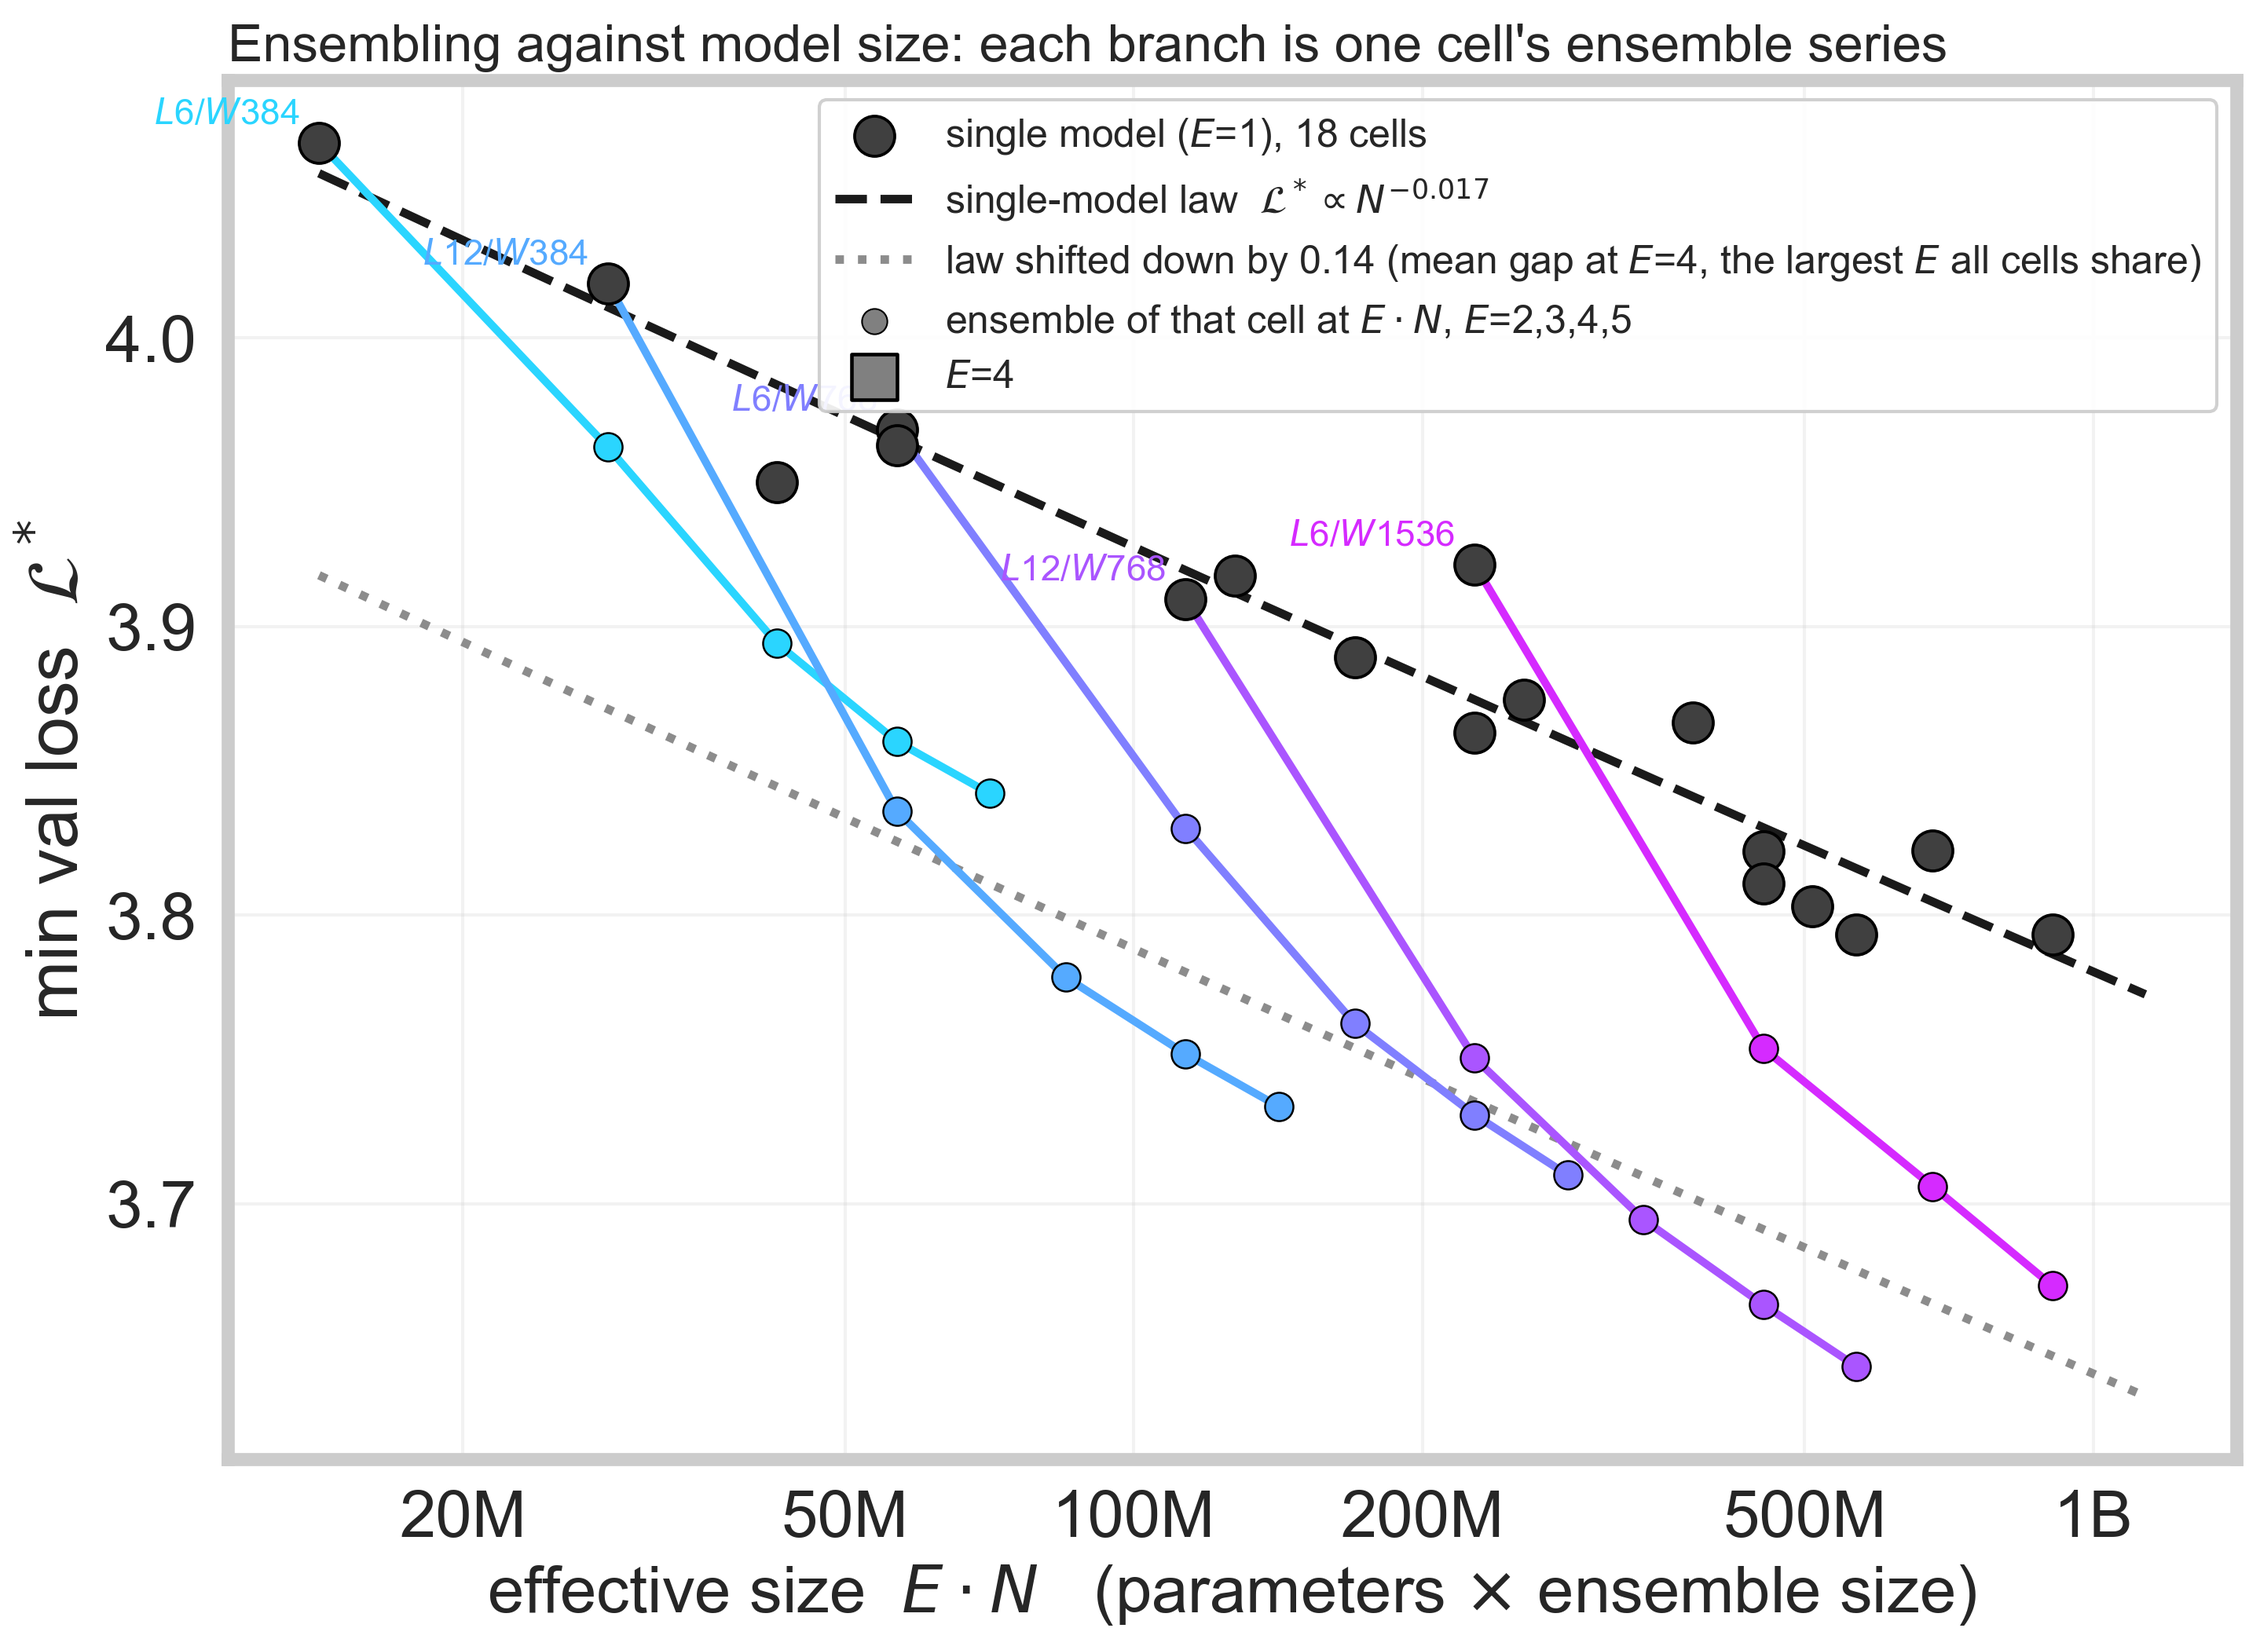
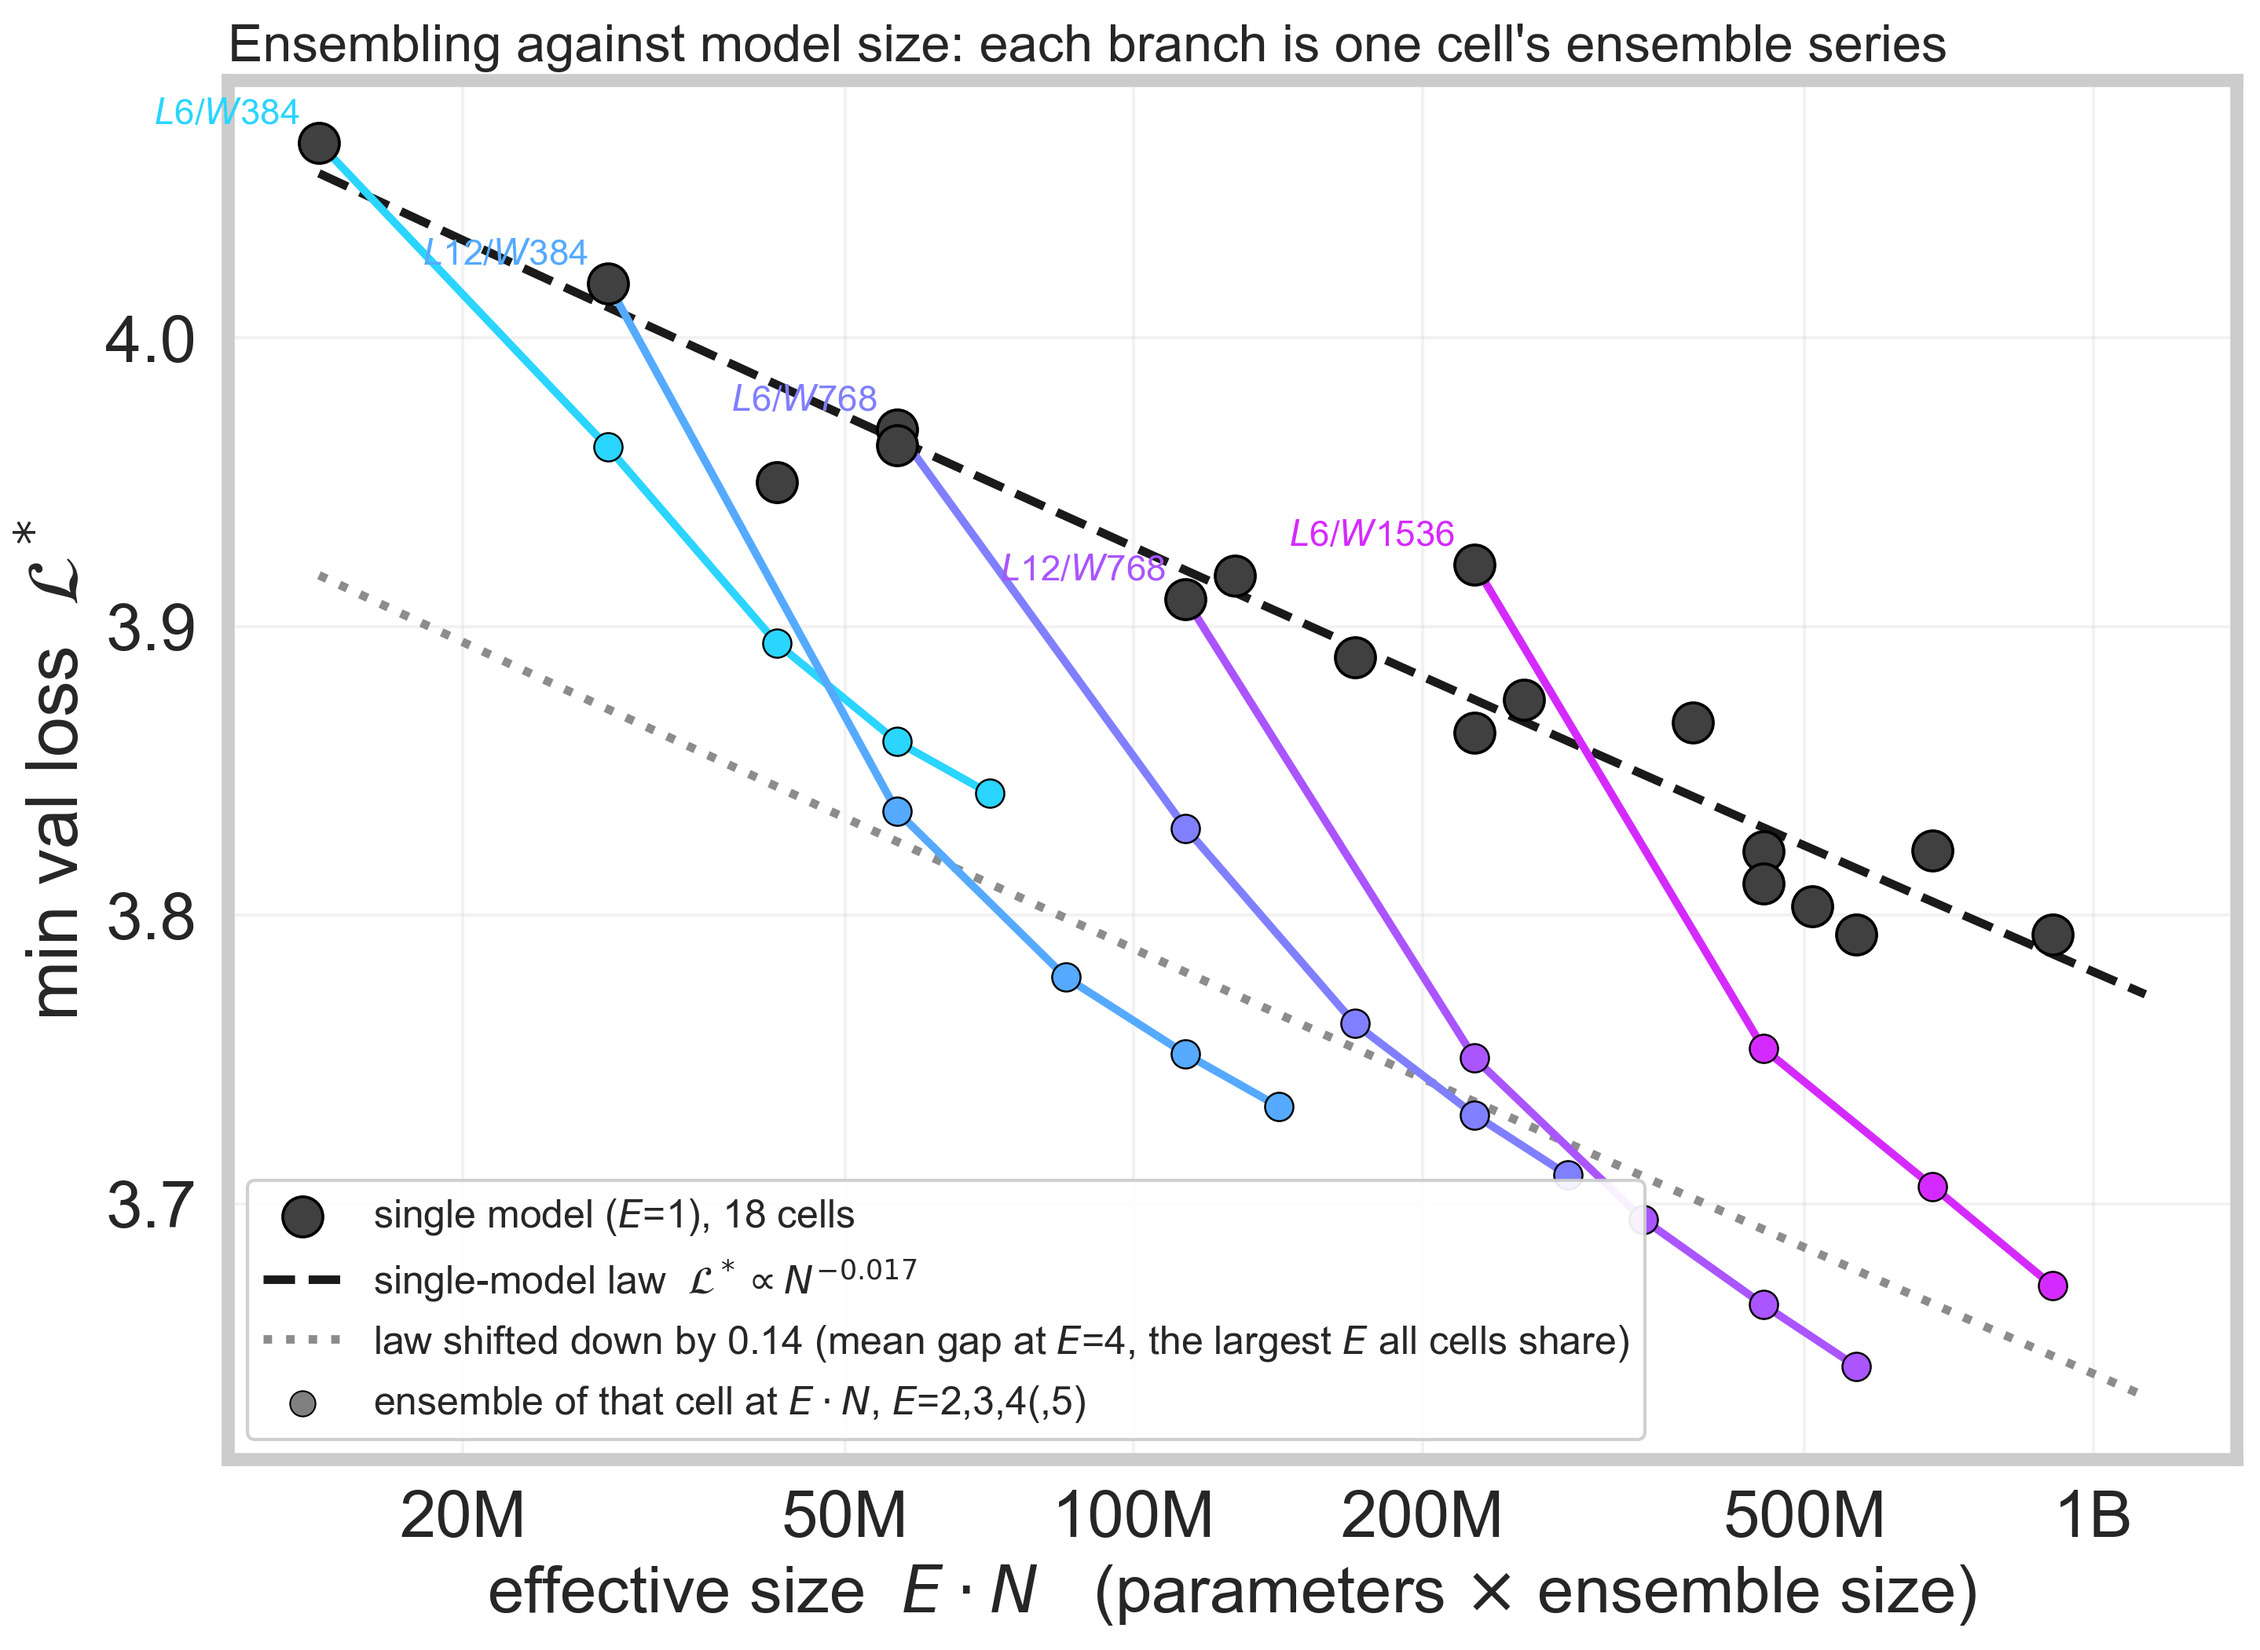
Ensemble figure: drop the stray E=4 legend proxy, legend lower left

diff --git a/experiments/analysis/expt_fig6_ensemble_vs_size.py b/experiments/analysis/expt_fig6_ensemble_vs_size.py
@@ -166,15 +166,14 @@ def main():
         ax.scatter(xs[1:], ys[1:], s=75, color=col, edgecolor="black", linewidth=0.6, zorder=5)
         ax.annotate(fr"$L${L}/$W${W}", xy=(xs[0], ys[0]), xytext=(-6, 6), textcoords="offset points",
                     fontsize=11, color=col, ha="right")
-    ax.scatter([], [], s=60, color="0.5", edgecolor="black", linewidth=0.5, label="ensemble of that cell at $E\cdot N$, $E$=2,3,4,5")
-    ax.scatter([], [], s=190, marker="s", color="0.5", edgecolor="black", linewidth=1.1, label="$E$=4")
+    ax.scatter([], [], s=60, color="0.5", edgecolor="black", linewidth=0.5, label="ensemble of that cell at $E\cdot N$, $E$=2,3,4(,5)")
     ax.set_xscale("log")
     ax.set_xticks([2e7, 5e7, 1e8, 2e8, 5e8, 1e9]); ax.xaxis.set_major_formatter(plt.FuncFormatter(lambda x, _: f"{x/1e6:.0f}M" if x < 1e9 else f"{x/1e9:g}B"))
     ax.xaxis.set_minor_formatter(plt.NullFormatter())
     ax.set_xlabel(r"effective size  $E\cdot N$   (parameters $\times$ ensemble size)", fontsize=20)
     ax.set_ylabel(r"min val loss  $\mathcal{L}^*$", fontsize=22)
     ax.set_title("Ensembling against model size: each branch is one cell's ensemble series", fontsize=16, loc="left")
-    ax.legend(loc="upper right", frameon=True, framealpha=0.92, fontsize=12)
+    ax.legend(loc="lower left", frameon=True, framealpha=0.92, fontsize=12)
     for ext in ("pdf", "png"):
         p = OUTDIR / f"expt_fig6_ensemble_vs_size.{ext}"
         fig.savefig(p, bbox_inches="tight", dpi=300)
